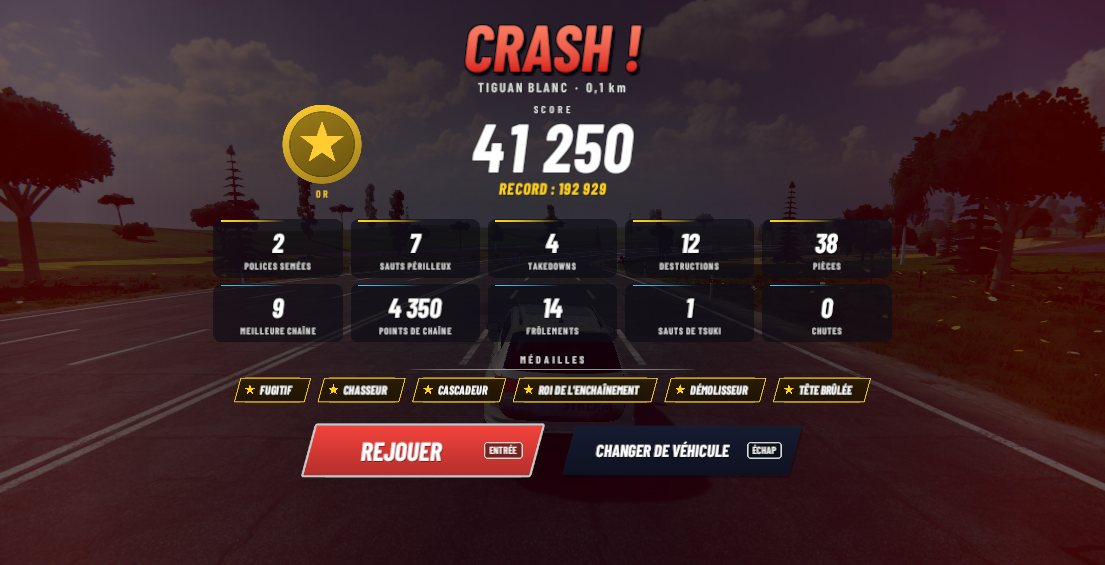
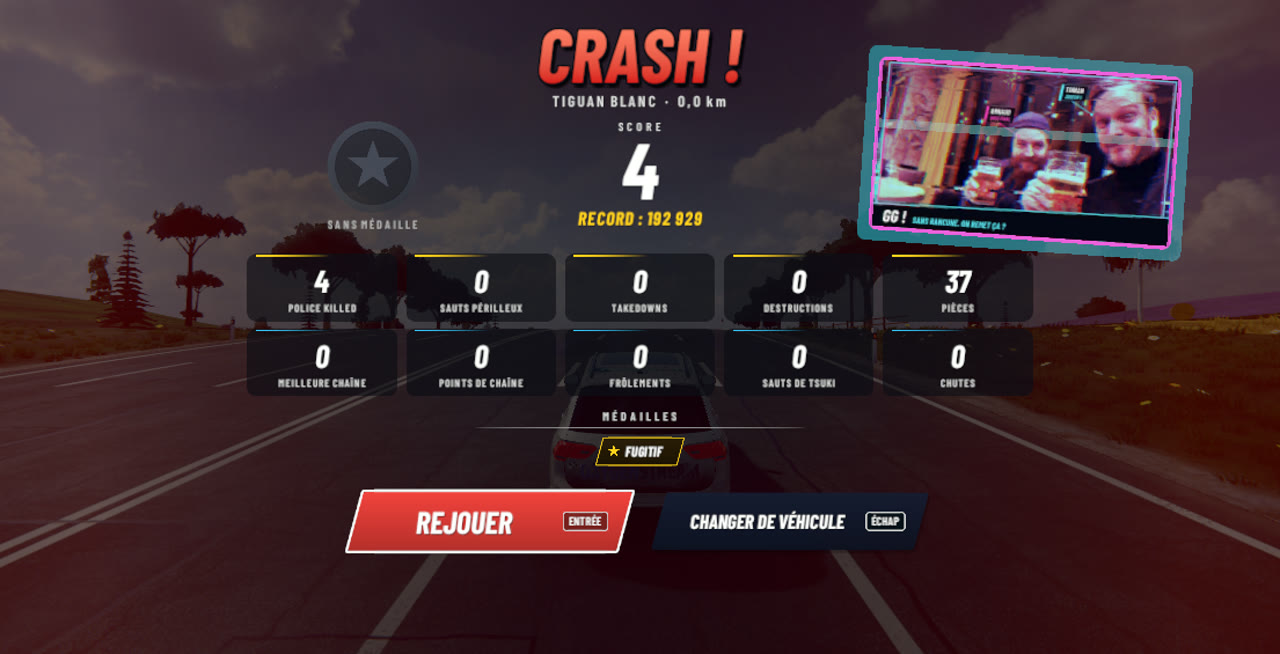
Version 2.0 : grosses têtes, photo de fin de partie

diff --git a/index.html b/index.html
@@ -59,7 +59,7 @@
       <div>
         <span class="etiquette rouge">Ennemi public n° 1</span>
         <h2>Renverse <em>Arnaud</em></h2>
-        <p class="chapo">Barbe rousse, pull OxygenStream et aucun respect. Il remonte à ta hauteur à moto, tourne la tête vers toi et te fait un doigt d'honneur. Puis il te passe devant en wheeling. Son portrait s'affiche en gros plan sur ton écran, pour que tu saches bien qui te nargue.</p>
+        <p class="chapo">Barbe rousse, pull OxygenStream et aucun respect. Il remonte à ta hauteur à moto, tourne la tête vers toi et te fait un doigt d'honneur. Puis il te passe devant en wheeling, avec sa grosse tête. Son portrait s'affiche en gros plan sur ton écran, pour que tu saches bien qui te nargue.</p>
         <div class="chiffres">
           <div><b>6</b><span>balles ou chocs pour le faire tomber. Il dérape, zigzague et esquive.</span></div>
           <div><b>8</b><span>phrases enregistrées avec sa vraie voix. Il râle à chaque touche.</span></div>
@@ -113,7 +113,7 @@
       <figure><img src="images/jeu-radar.jpg" alt="Le joueur passe à 51 km/h devant la voiture de police garée" loading="lazy"><figcaption>La police garée au bord de la route : passe doucement et elle ne bouge pas.</figcaption></figure>
     </div>
     <div class="grille g2 galerie" style="margin-top:22px">
-      <figure><img src="images/pilote-rebord.jpg" alt="Le pilote sorti par la fenêtre, assis sur le rebord, pistolet tendu" loading="lazy"><figcaption>La vitre descend, il sort et vise tout autour, même par-dessus le toit.</figcaption></figure>
+      <figure><img src="images/jeu-grosses-tetes.jpg" alt="Le pilote sorti par la fenêtre avec une grosse tête, Arnaud en wheeling, la police derrière" loading="lazy"><figcaption>La vitre descend, il sort, et tout le monde a la grosse tête.</figcaption></figure>
       <figure><img src="images/pilote-dos.jpg" alt="Le pilote de dos à moto, maillot jaune TOINAN 10" loading="lazy"><figcaption>À moto, le n° 10 dans le dos.</figcaption></figure>
     </div>
   </div>
@@ -187,6 +187,7 @@
       <span><kbd>M</kbd></span><span>Couper le son.</span>
       <span><kbd>Alt</kbd> + <kbd>Entrée</kbd></span><span>Plein écran ou fenêtre.</span>
     </div>
+    <figure class="galerie" style="margin-top:34px"><img src="images/jeu-fin.jpg" alt="L'écran de résultats, avec la photo des 2 compères en néon" loading="lazy"><figcaption>À la fin, les résultats, le compteur POLICE KILLED, et une photo souvenir des 2 compères.</figcaption></figure>
     <div class="boutons" style="justify-content:flex-start;margin-top:40px">
       <a class="bouton principal" href="telecharger.html"><span>Télécharger le jeu</span></a>
     </div>

diff --git a/telecharger.html b/telecharger.html
@@ -72,8 +72,8 @@
     <p class="note" style="margin-top:22px"><strong>macOS refuse quand même, ou dit que l'application est endommagée ?</strong> Ouvre Réglages Système, puis Confidentialité et sécurité, et clique sur « Ouvrir quand même » en bas de la page. Sinon, ouvre le Terminal, tape <code>xattr -cr</code> suivi d'un espace, glisse l'application dans la fenêtre, appuie sur Entrée, puis relance le jeu.</p>
     <p class="note" style="margin-top:14px"><strong>Version Mac toute neuve.</strong> Elle a été construite depuis Windows et n'a pas encore été essayée sur un vrai Mac. Si elle ne se lance pas chez toi, la version Windows reste la référence.</p>
     <dl class="fiche" style="margin-top:22px">
-      <dt>Fichier</dt><dd><code>CrashTaRace-Mac.zip</code>, 163 835 111 octets (164 Mo)</dd>
-      <dt>SHA-256</dt><dd><code>579468f4305e8ad2ef1913389d6a3dfc516c6710d8457e087fd731440d22a3e7</code></dd>
+      <dt>Fichier</dt><dd><code>CrashTaRace-Mac.zip</code>, 164 098 351 octets (164 Mo)</dd>
+      <dt>SHA-256</dt><dd><code>7fd5092d2fa4f6b460e35ef205f2545dbae3364230ddceac53297478da543530</code></dd>
     </dl>
   </div>
 </section>
@@ -106,8 +106,8 @@
     <h3 style="margin-top:40px">Fichier</h3>
     <dl class="fiche">
       <dt>Nom</dt><dd><code>CrashTaRace-Windows.zip</code></dd>
-      <dt>Taille</dt><dd>155 586 619 octets (156 Mo)</dd>
-      <dt>Empreinte SHA-256</dt><dd><code>5b37ae014f78b516adb58f30873865ba5210221f21989cdc7d705861e3b5071c</code></dd>
+      <dt>Taille</dt><dd>155 849 920 octets (156 Mo)</dd>
+      <dt>Empreinte SHA-256</dt><dd><code>d2ddb136ee6d494162bcbf244abd5d911e5e52f5141fef6bd60cd77ae81594da</code></dd>
       <dt>Vérifier</dt><dd>Dans PowerShell : <code>Get-FileHash .\CrashTaRace-Windows.zip</code></dd>
       <dt>Lien direct</dt><dd><a href="https://github.com/Toinan2000/crash-ta-race/releases/latest/download/CrashTaRace-Windows.zip">github.com/Toinan2000/crash-ta-race/releases/latest</a></dd>
     </dl>
